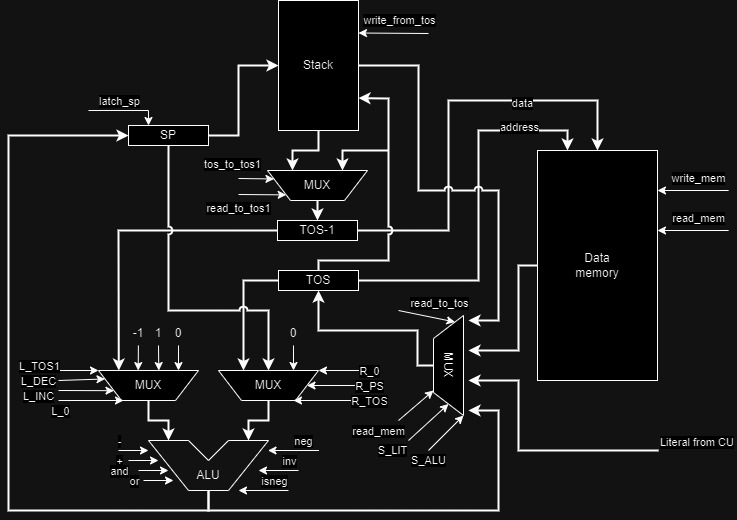
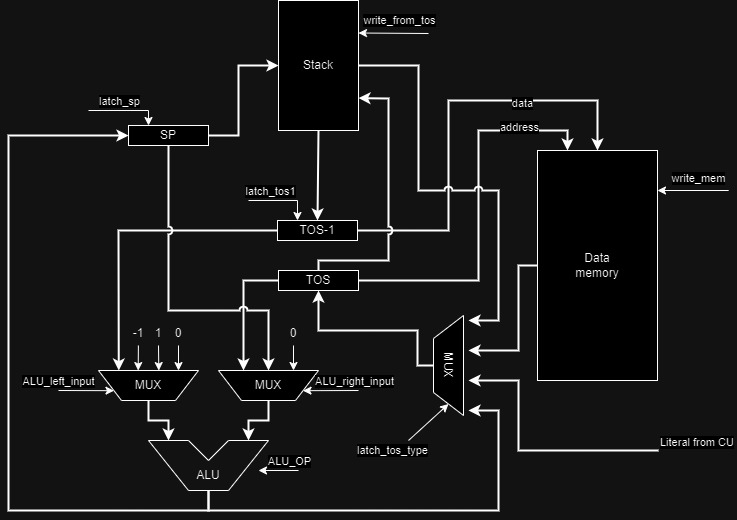
mux fix

diff --git a/machine_mc.py b/machine_mc.py
@@ -31,7 +31,7 @@ class ControlUnit:
         (Signal.PCJumpTypeNext, Signal.LatchPC, Signal.MicroProgramCounterZero, Signal.LatchMPCounter),  # 1
         # LIT
         (Signal.SaveLIT, Signal.MicroProgramCounterNext, Signal.LatchMPCounter),  # 2
-        (Signal.ReadToTOS1, Signal.MicroProgramCounterNext, Signal.LatchMPCounter),  # 3
+        (Signal.LatchTOS1, Signal.MicroProgramCounterNext, Signal.LatchMPCounter),  # 3
         (
             Signal.IncLeft,
             Signal.SPRight,
@@ -83,7 +83,7 @@ class ControlUnit:
             Signal.MicroProgramCounterNext,
             Signal.LatchMPCounter,
         ),  # 12
-        (Signal.ReadToTOS1, Signal.MicroProgramCounterNext, Signal.LatchMPCounter),  # 13
+        (Signal.LatchTOS1, Signal.MicroProgramCounterNext, Signal.LatchMPCounter),  # 13
         (
             Signal.IncLeft,
             Signal.SPRight,
@@ -105,7 +105,7 @@ class ControlUnit:
         ),  # 15
         (Signal.WriteFromTOS, Signal.MicroProgramCounterNext, Signal.LatchMPCounter),  # 16
         (
-            Signal.ReadToTOS1,
+            Signal.LatchTOS1,
             Signal.MicroProgramCounterZero,
             Signal.LatchMPCounter,
             Signal.PCJumpTypeNext,
@@ -120,7 +120,7 @@ class ControlUnit:
             Signal.MicroProgramCounterNext,
             Signal.LatchMPCounter,
         ),  # 18
-        (Signal.ReadToTOS1, Signal.MicroProgramCounterNext, Signal.LatchMPCounter),  # 19
+        (Signal.LatchTOS1, Signal.MicroProgramCounterNext, Signal.LatchMPCounter),  # 19
         (
             Signal.IncLeft,
             Signal.SPRight,
@@ -162,7 +162,7 @@ class ControlUnit:
             Signal.MicroProgramCounterNext,
             Signal.LatchMPCounter,
         ),  # 25
-        (Signal.ReadToTOS1, Signal.MicroProgramCounterNext, Signal.LatchMPCounter),  # 26
+        (Signal.LatchTOS1, Signal.MicroProgramCounterNext, Signal.LatchMPCounter),  # 26
         (
             Signal.IncLeft,
             Signal.SPRight,
@@ -199,7 +199,7 @@ class ControlUnit:
             Signal.MicroProgramCounterNext,
             Signal.LatchMPCounter,
         ),  # 31
-        (Signal.ReadToTOS1, Signal.MicroProgramCounterNext, Signal.LatchMPCounter),  # 32
+        (Signal.LatchTOS1, Signal.MicroProgramCounterNext, Signal.LatchMPCounter),  # 32
         (
             Signal.IncLeft,
             Signal.SPRight,
@@ -236,7 +236,7 @@ class ControlUnit:
             Signal.MicroProgramCounterNext,
             Signal.LatchMPCounter,
         ),  # 37
-        (Signal.ReadToTOS1, Signal.MicroProgramCounterNext, Signal.LatchMPCounter),  # 38
+        (Signal.LatchTOS1, Signal.MicroProgramCounterNext, Signal.LatchMPCounter),  # 38
         (
             Signal.IncLeft,
             Signal.SPRight,
@@ -273,7 +273,7 @@ class ControlUnit:
             Signal.MicroProgramCounterNext,
             Signal.LatchMPCounter,
         ),  # 43
-        (Signal.ReadToTOS1, Signal.MicroProgramCounterNext, Signal.LatchMPCounter),  # 44
+        (Signal.LatchTOS1, Signal.MicroProgramCounterNext, Signal.LatchMPCounter),  # 44
         (
             Signal.IncLeft,
             Signal.SPRight,
@@ -353,7 +353,7 @@ class ControlUnit:
             Signal.MicroProgramCounterNext,
             Signal.LatchMPCounter,
         ),  # 56
-        (Signal.ReadToTOS1, Signal.MicroProgramCounterNext, Signal.LatchMPCounter),  # 57
+        (Signal.LatchTOS1, Signal.MicroProgramCounterNext, Signal.LatchMPCounter),  # 57
         (
             Signal.IncLeft,
             Signal.SPRight,
@@ -479,11 +479,9 @@ class ControlUnit:
                     self.data_path.latch_sp(alu_res)
                 case Signal.WriteFromTOS:
                     self.data_path.write_from_tos()
-                case Signal.TosToTos1:
-                    self.data_path.latch_tos1(self.data_path.tos)
                 case Signal.ReadToTOS:
                     self.data_path.latch_tos(self.data_path.stack[self.data_path.stack_pointer])
-                case Signal.ReadToTOS1:
+                case Signal.LatchTOS1:
                     self.data_path.latch_tos1(self.data_path.stack[self.data_path.stack_pointer])
 
                 case Signal.PushRetStack:

diff --git a/signals.py b/signals.py
@@ -4,7 +4,6 @@ from enum import Enum
 class Signal(str, Enum):
     # Memory
     WriteMem = "WriteMem"
-    ReadMem = "ReadMem"
 
     # ALU multiplexer latch
     TOSRight = "TOSRight"
@@ -27,15 +26,16 @@ class Signal(str, Enum):
     # TOS multiplexer latch
     SaveALU = "SaveALU"
     SaveLIT = "SaveLIT"
+    ReadMem = "ReadMem"
+    ReadToTOS = "ReadToTOS"
+
+    LatchTOS1 = "ReadToTOS1"
 
     # latch
     LatchSP = "LatchSP"
 
     # Stack
     WriteFromTOS = "WriteFromTOS"
-    TosToTos1 = "TosToTos1"
-    ReadToTOS = "ReadToTOS"
-    ReadToTOS1 = "ReadToTOS1"
 
     # Controlling
     PCJumpTypeJNZ = "PCJumpTypeJNZ"

diff --git a/README.md b/README.md
@@ -246,27 +246,30 @@ ___Кроме команд `DUP` и `OVER`.___ \
 Описание сигналов DataPath:
   - `latch_sp` - защелкнуть регистр-указатель на вершину стека
   - `write_from_tos` - записать в стек значение из регистра TOS
-  - `read_to_tos1` - защелкнуть в регистр TOS1 значение из стека по указателю SP
-  - `read_to_tos` - защелкнуть в регистр TOS значение из стека по указателю SP
+  - `latch_tos1` - защелкнуть в регистр TOS1 значение из стека по указателю SP
+  - `latch_tos_type` - определяет, что защелкнуть в TOS (2 бита обеспечивает 4 строки таблицы истинности)
+    - `read_mem` - защелкнуть в регистр TOS значение из памяти по адресу в регистре TOS
+    - `read_to_tos` - защелкнуть в регистр TOS значение из стека по указателю SP
+    - `S_LIT` - защелкнуть в регистр TOS литерал из инструкции (см устройство literal в ContrlUnit)
+    - `S_ALU` - защелкнуть в регистр TOS значение, посчитанное АЛУ
   - `write_mem` - записать в память по адресу из регистра TOS значение из регистра TOS1
-  - `read_mem` - защелкнуть в регистр TOS значение из памяти по адресу в регистре TOS
-  - `tos_to_tos1` - защелкнуть в регистр TOS1 значение из регистра TOS
-  - `L_TOS1` - подать на левый вход АЛУ значение регистра TOS1
-  - `L_DEC` - подать на левый вход АЛУ -1
-  - `L_INC` - подать на левый вход АЛУ 1
-  - `L_0` - подать на левый вход АЛУ 0
-  - `R_TOS` - подать на левый вход АЛУ значение регистра TOS
-  - `R_PS` - подать на правый вход АЛУ значение регистра-указателя на вершину стека
-  - `R_0` - подать на правый вход АЛУ 0
-  - `-` - выбрать операцию вычитания для АЛУ (левый вход - правый вход)
-  - `+` - выбрать операцию сложения для АЛУ
-  - `and` - выбрать операцию логического И для АЛУ
-  - `or` - выбрать операцию логического ИЛИ для АЛУ
-  - `neg` - АЛУ возьмет взаимно обратное по сложению число для правого входа
-  - `inv` - АЛУ логически инвертирует правый вход
-  - `isneg` - АЛУ выдаст -1, если на правом входе 0, и 0 иначе
-  - `S_LIT` - защелкнуть в регистр TOS литерал из инструкции (см устройство literal в ContrlUnit)
-  - `S_ALU` - защелкнуть в регистр TOS значение, посчитанное АЛУ
+  - `ALU_left_input` - определяет, что подать на левый вход АЛУ(2 бита обеспечивает 4 строки таблицы истинности)
+    - `L_TOS1` - подать на левый вход АЛУ значение регистра TOS1
+    - `L_DEC` - подать на левый вход АЛУ -1
+    - `L_INC` - подать на левый вход АЛУ 1
+    - `L_0` - подать на левый вход АЛУ 0
+  - `ALU_right_input` - определяет, что подать на правый вход АЛУ (2 бита обеспечивает 4 строки таблицы истинности)
+    - `R_TOS` - подать на левый вход АЛУ значение регистра TOS
+    - `R_PS` - подать на правый вход АЛУ значение регистра-указателя на вершину стека
+    - `R_0` - подать на правый вход АЛУ 0
+  - `ALU_OP` - определяет операцию на АЛУ (3 бита обеспечивает 8 строк таблицы истинности)
+    - `-` - выбрать операцию вычитания для АЛУ (левый вход - правый вход)
+    - `+` - выбрать операцию сложения для АЛУ
+    - `and` - выбрать операцию логического И для АЛУ
+    - `or` - выбрать операцию логического ИЛИ для АЛУ
+    - `neg` - АЛУ возьмет взаимно обратное по сложению число для правого входа
+    - `inv` - АЛУ логически инвертирует правый вход
+    - `isneg` - АЛУ выдаст -1, если на правом входе 0, и 0 иначе
 
 ~~`Control Unit` для `Microcoded` модели процессора реализован в модуле [machine_mc.py](/machine_mc.py).~~
 
@@ -297,8 +300,6 @@ ___Кроме команд `DUP` и `OVER`.___ \
 - `prob1` – сумма чисел от 1 до 1000, кратные 3 либо 5.
 
 Запустить тесты можно с помощью:
-
-will be there soon...
 
 ```shell
 cd python
